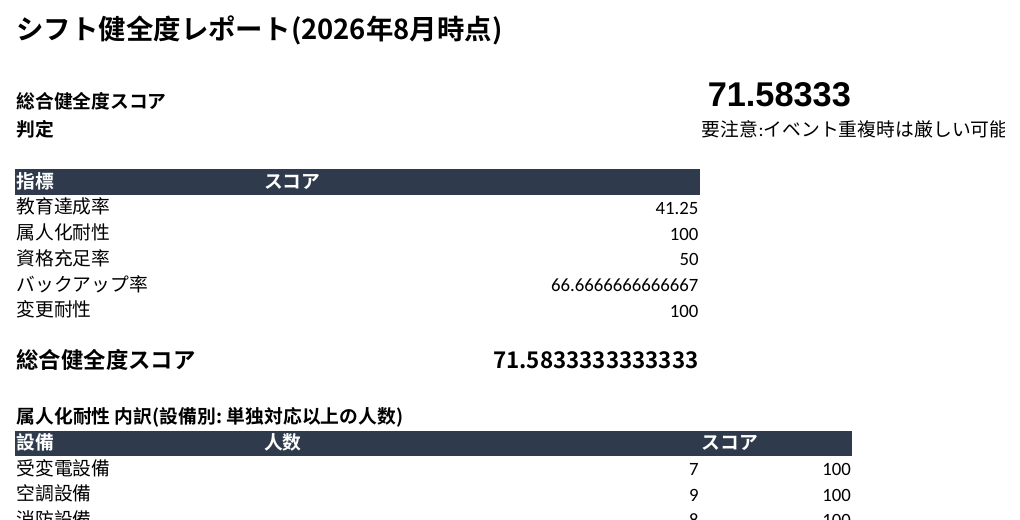
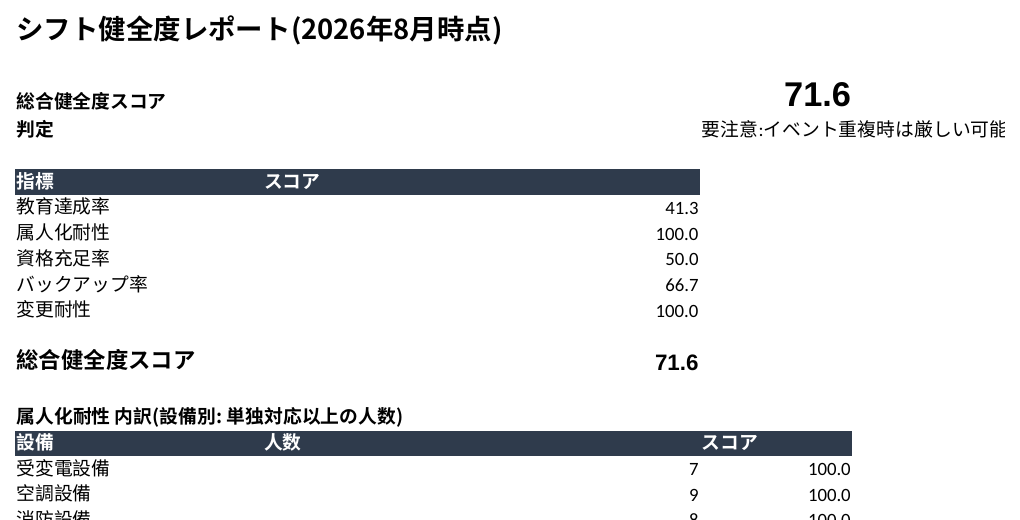
健全度スコアの表示を小数点第1位に統一、頭打ち対応案に第4案『チーム編成の見直し(異動)』を追加

diff --git a/dashboard/ShiftDashboard.jsx b/dashboard/ShiftDashboard.jsx
@@ -31,7 +31,7 @@ import {
 // ---- STEP1〜5で生成したデータ(2026年8月分のデモ) ----
 const DATA = {"members": [{"id": "M01", "name": "佐藤 一郎", "team": "A", "role": "リーダー"}, {"id": "M02", "name": "鈴木 次郎", "team": "B", "role": "リーダー"}, {"id": "M03", "name": "高橋 三郎", "team": "C", "role": "リーダー"}, {"id": "M04", "name": "田中 誠", "team": "A", "role": "中堅"}, {"id": "M05", "name": "伊藤 健太", "team": "B", "role": "中堅"}, {"id": "M06", "name": "渡辺 修", "team": "C", "role": "中堅"}, {"id": "M07", "name": "山本 隆", "team": "D", "role": "中堅"}, {"id": "M08", "name": "中村 陽介", "team": "A", "role": "一般"}, {"id": "M09", "name": "小林 拓也", "team": "C", "role": "一般"}, {"id": "M10", "name": "加藤 大輔", "team": "D", "role": "サブリーダー"}, {"id": "M11", "name": "吉田 匠", "team": "E", "role": "サブリーダー"}, {"id": "M12", "name": "山田 悠斗", "team": "B", "role": "新人"}, {"id": "M13", "name": "佐々木 蓮", "team": "D", "role": "新人"}, {"id": "M14", "name": "松本 洋平", "team": "E", "role": "中堅"}, {"id": "M15", "name": "井上 直樹", "team": "E", "role": "一般"}], "team_shifts_by_date": [{"date": "2026-08-01", "shifts": {"A": "早番A", "B": "早番B", "C": "夜勤", "D": "明け", "E": "休み"}}, {"date": "2026-08-02", "shifts": {"A": "早番B", "B": "夜勤", "C": "明け", "D": "休み", "E": "早番A"}}, {"date": "2026-08-03", "shifts": {"A": "夜勤", "B": "明け", "C": "休み", "D": "早番A", "E": "早番B"}}, {"date": "2026-08-04", "shifts": {"A": "明け", "B": "休み", "C": "早番A", "D": "早番B", "E": "夜勤"}}, {"date": "2026-08-05", "shifts": {"A": "休み", "B": "早番A", "C": "早番B", "D": "夜勤", "E": "明け"}}, {"date": "2026-08-06", "shifts": {"A": "早番A", "B": "早番B", "C": "夜勤", "D": "明け", "E": "休み"}}, {"date": "2026-08-07", "shifts": {"A": "早番B", "B": "夜勤", "C": "明け", "D": "休み", "E": "早番A"}}, {"date": "2026-08-08", "shifts": {"A": "夜勤", "B": "明け", "C": "休み", "D": "早番A", "E": "早番B"}}, {"date": "2026-08-09", "shifts": {"A": "明け", "B": "休み", "C": "早番A", "D": "早番B", "E": "夜勤"}}, {"date": "2026-08-10", "shifts": {"A": "休み", "B": "早番A", "C": "早番B", "D": "夜勤", "E": "明け"}}, {"date": "2026-08-11", "shifts": {"A": "早番A", "B": "早番B", "C": "夜勤", "D": "明け", "E": "休み"}}, {"date": "2026-08-12", "shifts": {"A": "早番B", "B": "夜勤", "C": "明け", "D": "休み", "E": "早番A"}}, {"date": "2026-08-13", "shifts": {"A": "夜勤", "B": "明け", "C": "休み", "D": "早番A", "E": "早番B"}}, {"date": "2026-08-14", "shifts": {"A": "明け", "B": "休み", "C": "早番A", "D": "早番B", "E": "夜勤"}}, {"date": "2026-08-15", "shifts": {"A": "休み", "B": "早番A", "C": "早番B", "D": "夜勤", "E": "明け"}}, {"date": "2026-08-16", "shifts": {"A": "早番A", "B": "早番B", "C": "夜勤", "D": "明け", "E": "休み"}}, {"date": "2026-08-17", "shifts": {"A": "早番B", "B": "夜勤", "C": "明け", "D": "休み", "E": "早番A"}}, {"date": "2026-08-18", "shifts": {"A": "夜勤", "B": "明け", "C": "休み", "D": "早番A", "E": "早番B"}}, {"date": "2026-08-19", "shifts": {"A": "明け", "B": "休み", "C": "早番A", "D": "早番B", "E": "夜勤"}}, {"date": "2026-08-20", "shifts": {"A": "休み", "B": "早番A", "C": "早番B", "D": "夜勤", "E": "明け"}}, {"date": "2026-08-21", "shifts": {"A": "早番A", "B": "早番B", "C": "夜勤", "D": "明け", "E": "休み"}}, {"date": "2026-08-22", "shifts": {"A": "早番B", "B": "夜勤", "C": "明け", "D": "休み", "E": "早番A"}}, {"date": "2026-08-23", "shifts": {"A": "夜勤", "B": "明け", "C": "休み", "D": "早番A", "E": "早番B"}}, {"date": "2026-08-24", "shifts": {"A": "明け", "B": "休み", "C": "早番A", "D": "早番B", "E": "夜勤"}}, {"date": "2026-08-25", "shifts": {"A": "休み", "B": "早番A", "C": "早番B", "D": "夜勤", "E": "明け"}}, {"date": "2026-08-26", "shifts": {"A": "早番A", "B": "早番B", "C": "夜勤", "D": "明け", "E": "休み"}}, {"date": "2026-08-27", "shifts": {"A": "早番B", "B": "夜勤", "C": "明け", "D": "休み", "E": "早番A"}}, {"date": "2026-08-28", "shifts": {"A": "夜勤", "B": "明け", "C": "休み", "D": "早番A", "E": "早番B"}}, {"date": "2026-08-29", "shifts": {"A": "明け", "B": "休み", "C": "早番A", "D": "早番B", "E": "夜勤"}}, {"date": "2026-08-30", "shifts": {"A": "休み", "B": "早番A", "C": "早番B", "D": "夜勤", "E": "明け"}}, {"date": "2026-08-31", "shifts": {"A": "早番A", "B": "早番B", "C": "夜勤", "D": "明け", "E": "休み"}}], "health": {"教育達成率": 41.2, "属人化耐性": 100.0, "資格充足率": 50.0, "バックアップ率": 66.7, "変更耐性": 100.0}, "health_overall": 71.6, "requested_days_off": {"M04": ["2026-08-10", "2026-08-11"], "M12": ["2026-08-20"], "M09": ["2026-08-15", "2026-08-16", "2026-08-17"]}, "night_overages": [{"member": "小林 拓也", "role": "一般", "scheduled_nights": 7, "limit": 6}, {"member": "山田 悠斗", "role": "新人", "scheduled_nights": 6, "limit": 4}, {"member": "佐々木 蓮", "role": "新人", "scheduled_nights": 6, "limit": 4}]};
 
-const FUTURE_DATA = {"projection": [{"month": 0, "overall": 71.6, "education": 41.2}, {"month": 3, "overall": 72.2, "education": 52.9}, {"month": 6, "overall": 73.0, "education": 56.7}, {"month": 12, "overall": 73.0, "education": 56.7}], "gap_count": 13, "people_needed": 5, "people_breakdown": [{"name": "佐藤 一郎", "covers": ["A/消防設備"]}, {"name": "鈴木 次郎", "covers": ["B/空調設備", "B/監視盤"]}, {"name": "高橋 三郎", "covers": ["C/受変電設備", "C/消防設備"]}, {"name": "加藤 大輔", "covers": ["D/受変電設備", "D/空調設備", "D/消防設備", "D/監視盤"]}, {"name": "吉田 匠", "covers": ["E/受変電設備", "E/空調設備", "E/消防設備", "E/監視盤"]}], "gaps_with_options": [{"team": "A", "equipment": "消防設備", "internal": "佐藤 一郎(現在 単独)を教育担当に育てる", "support": "鈴木 次郎(チームB) を臨時にチームAの早番Aへ応援に回す", "rotation": "佐藤 一郎など最もスキルの高いメンバーを一時的に教育専任(常日勤)にする。ただし固定化すると不公平感が出るため、対象者を数ヶ月ごとに交代するローテーション制にする"}, {"team": "B", "equipment": "空調設備", "internal": "鈴木 次郎(現在 単独)を教育担当に育てる", "support": "佐藤 一郎(チームA)、高橋 三郎(チームC) を臨時にチームBの早番Aへ応援に回す", "rotation": "鈴木 次郎など最もスキルの高いメンバーを一時的に教育専任(常日勤)にする。ただし固定化すると不公平感が出るため、対象者を数ヶ月ごとに交代するローテーション制にする"}, {"team": "B", "equipment": "監視盤", "internal": "鈴木 次郎(現在 単独)を教育担当に育てる", "support": "佐藤 一郎(チームA)、高橋 三郎(チームC) を臨時にチームBの早番Aへ応援に回す", "rotation": "鈴木 次郎など最もスキルの高いメンバーを一時的に教育専任(常日勤)にする。ただし固定化すると不公平感が出るため、対象者を数ヶ月ごとに交代するローテーション制にする"}, {"team": "C", "equipment": "受変電設備", "internal": "高橋 三郎(現在 単独)を教育担当に育てる", "support": "佐藤 一郎(チームA)、鈴木 次郎(チームB) を臨時にチームCの早番Aへ応援に回す", "rotation": "高橋 三郎など最もスキルの高いメンバーを一時的に教育専任(常日勤)にする。ただし固定化すると不公平感が出るため、対象者を数ヶ月ごとに交代するローテーション制にする"}, {"team": "C", "equipment": "消防設備", "internal": "高橋 三郎(現在 単独)を教育担当に育てる", "support": "鈴木 次郎(チームB) を臨時にチームCの早番Aへ応援に回す", "rotation": "高橋 三郎など最もスキルの高いメンバーを一時的に教育専任(常日勤)にする。ただし固定化すると不公平感が出るため、対象者を数ヶ月ごとに交代するローテーション制にする"}, {"team": "D", "equipment": "受変電設備", "internal": "加藤 大輔(現在 単独)を教育担当に育てる", "support": "佐藤 一郎(チームA)、鈴木 次郎(チームB) を臨時にチームDの早番Aへ応援に回す", "rotation": "加藤 大輔など最もスキルの高いメンバーを一時的に教育専任(常日勤)にする。ただし固定化すると不公平感が出るため、対象者を数ヶ月ごとに交代するローテーション制にする"}, {"team": "D", "equipment": "空調設備", "internal": "加藤 大輔(現在 教育担当補助)を教育担当に育てる", "support": "佐藤 一郎(チームA)、高橋 三郎(チームC) を臨時にチームDの早番Aへ応援に回す", "rotation": "加藤 大輔など最もスキルの高いメンバーを一時的に教育専任(常日勤)にする。ただし固定化すると不公平感が出るため、対象者を数ヶ月ごとに交代するローテーション制にする"}, {"team": "D", "equipment": "消防設備", "internal": "加藤 大輔(現在 単独)を教育担当に育てる", "support": "鈴木 次郎(チームB) を臨時にチームDの早番Aへ応援に回す", "rotation": "加藤 大輔など最もスキルの高いメンバーを一時的に教育専任(常日勤)にする。ただし固定化すると不公平感が出るため、対象者を数ヶ月ごとに交代するローテーション制にする"}, {"team": "D", "equipment": "監視盤", "internal": "加藤 大輔(現在 教育担当補助)を教育担当に育てる", "support": "佐藤 一郎(チームA)、高橋 三郎(チームC) を臨時にチームDの早番Aへ応援に回す", "rotation": "加藤 大輔など最もスキルの高いメンバーを一時的に教育専任(常日勤)にする。ただし固定化すると不公平感が出るため、対象者を数ヶ月ごとに交代するローテーション制にする"}, {"team": "E", "equipment": "受変電設備", "internal": "吉田 匠(現在 単独)を教育担当に育てる", "support": "佐藤 一郎(チームA)、鈴木 次郎(チームB) を臨時にチームEの早番Aへ応援に回す", "rotation": "吉田 匠など最もスキルの高いメンバーを一時的に教育専任(常日勤)にする。ただし固定化すると不公平感が出るため、対象者を数ヶ月ごとに交代するローテーション制にする"}, {"team": "E", "equipment": "空調設備", "internal": "吉田 匠(現在 単独)を教育担当に育てる", "support": "佐藤 一郎(チームA)、高橋 三郎(チームC) を臨時にチームEの早番Aへ応援に回す", "rotation": "吉田 匠など最もスキルの高いメンバーを一時的に教育専任(常日勤)にする。ただし固定化すると不公平感が出るため、対象者を数ヶ月ごとに交代するローテーション制にする"}, {"team": "E", "equipment": "消防設備", "internal": "吉田 匠(現在 教育担当補助)を教育担当に育てる", "support": "鈴木 次郎(チームB) を臨時にチームEの早番Aへ応援に回す", "rotation": "吉田 匠など最もスキルの高いメンバーを一時的に教育専任(常日勤)にする。ただし固定化すると不公平感が出るため、対象者を数ヶ月ごとに交代するローテーション制にする"}, {"team": "E", "equipment": "監視盤", "internal": "吉田 匠(現在 単独)を教育担当に育てる", "support": "佐藤 一郎(チームA)、高橋 三郎(チームC) を臨時にチームEの早番Aへ応援に回す", "rotation": "吉田 匠など最もスキルの高いメンバーを一時的に教育専任(常日勤)にする。ただし固定化すると不公平感が出るため、対象者を数ヶ月ごとに交代するローテーション制にする"}]};
+const FUTURE_DATA = {"projection": [{"month": 0, "overall": 71.6, "education": 41.2}, {"month": 3, "overall": 72.2, "education": 52.9}, {"month": 6, "overall": 73.0, "education": 56.7}, {"month": 12, "overall": 73.0, "education": 56.7}], "gap_count": 13, "people_needed": 5, "people_breakdown": [{"name": "佐藤 一郎", "covers": ["A/消防設備"]}, {"name": "鈴木 次郎", "covers": ["B/空調設備", "B/監視盤"]}, {"name": "高橋 三郎", "covers": ["C/受変電設備", "C/消防設備"]}, {"name": "加藤 大輔", "covers": ["D/受変電設備", "D/空調設備", "D/消防設備", "D/監視盤"]}, {"name": "吉田 匠", "covers": ["E/受変電設備", "E/空調設備", "E/消防設備", "E/監視盤"]}], "gaps_with_options": [{"team": "A", "equipment": "消防設備", "internal": "佐藤 一郎(現在 単独)を教育担当に育てる", "support": "鈴木 次郎(チームB) を臨時にチームAの早番Aへ応援に回す", "rotation": "佐藤 一郎など最もスキルの高いメンバーを一時的に教育専任(常日勤)にする。ただし固定化すると不公平感が出るため、対象者を数ヶ月ごとに交代するローテーション制にする", "reassignment": "鈴木 次郎(チームB)を チームA へ恒久的に異動する。異動元(チームB)には他に単独対応以上の人が残るため、教育体制は維持される"}, {"team": "B", "equipment": "空調設備", "internal": "鈴木 次郎(現在 単独)を教育担当に育てる", "support": "佐藤 一郎(チームA)、高橋 三郎(チームC) を臨時にチームBの早番Aへ応援に回す", "rotation": "鈴木 次郎など最もスキルの高いメンバーを一時的に教育専任(常日勤)にする。ただし固定化すると不公平感が出るため、対象者を数ヶ月ごとに交代するローテーション制にする", "reassignment": "佐藤 一郎(チームA)を チームB へ恒久的に異動する。異動元(チームA)には他に単独対応以上の人が残るため、教育体制は維持される"}, {"team": "B", "equipment": "監視盤", "internal": "鈴木 次郎(現在 単独)を教育担当に育てる", "support": "佐藤 一郎(チームA)、高橋 三郎(チームC) を臨時にチームBの早番Aへ応援に回す", "rotation": "鈴木 次郎など最もスキルの高いメンバーを一時的に教育専任(常日勤)にする。ただし固定化すると不公平感が出るため、対象者を数ヶ月ごとに交代するローテーション制にする", "reassignment": "佐藤 一郎(チームA)を チームB へ恒久的に異動する。異動元(チームA)には他に単独対応以上の人が残るため、教育体制は維持される"}, {"team": "C", "equipment": "受変電設備", "internal": "高橋 三郎(現在 単独)を教育担当に育てる", "support": "佐藤 一郎(チームA)、鈴木 次郎(チームB) を臨時にチームCの早番Aへ応援に回す", "rotation": "高橋 三郎など最もスキルの高いメンバーを一時的に教育専任(常日勤)にする。ただし固定化すると不公平感が出るため、対象者を数ヶ月ごとに交代するローテーション制にする", "reassignment": "佐藤 一郎(チームA)を チームC へ恒久的に異動する。異動元(チームA)には他に単独対応以上の人が残るため、教育体制は維持される"}, {"team": "C", "equipment": "消防設備", "internal": "高橋 三郎(現在 単独)を教育担当に育てる", "support": "鈴木 次郎(チームB) を臨時にチームCの早番Aへ応援に回す", "rotation": "高橋 三郎など最もスキルの高いメンバーを一時的に教育専任(常日勤)にする。ただし固定化すると不公平感が出るため、対象者を数ヶ月ごとに交代するローテーション制にする", "reassignment": "鈴木 次郎(チームB)を チームC へ恒久的に異動する。異動元(チームB)には他に単独対応以上の人が残るため、教育体制は維持される"}, {"team": "D", "equipment": "受変電設備", "internal": "加藤 大輔(現在 単独)を教育担当に育てる", "support": "佐藤 一郎(チームA)、鈴木 次郎(チームB) を臨時にチームDの早番Aへ応援に回す", "rotation": "加藤 大輔など最もスキルの高いメンバーを一時的に教育専任(常日勤)にする。ただし固定化すると不公平感が出るため、対象者を数ヶ月ごとに交代するローテーション制にする", "reassignment": "佐藤 一郎(チームA)を チームD へ恒久的に異動する。異動元(チームA)には他に単独対応以上の人が残るため、教育体制は維持される"}, {"team": "D", "equipment": "空調設備", "internal": "加藤 大輔(現在 教育担当補助)を教育担当に育てる", "support": "佐藤 一郎(チームA)、高橋 三郎(チームC) を臨時にチームDの早番Aへ応援に回す", "rotation": "加藤 大輔など最もスキルの高いメンバーを一時的に教育専任(常日勤)にする。ただし固定化すると不公平感が出るため、対象者を数ヶ月ごとに交代するローテーション制にする", "reassignment": "佐藤 一郎(チームA)を チームD へ恒久的に異動する。異動元(チームA)には他に単独対応以上の人が残るため、教育体制は維持される"}, {"team": "D", "equipment": "消防設備", "internal": "加藤 大輔(現在 単独)を教育担当に育てる", "support": "鈴木 次郎(チームB) を臨時にチームDの早番Aへ応援に回す", "rotation": "加藤 大輔など最もスキルの高いメンバーを一時的に教育専任(常日勤)にする。ただし固定化すると不公平感が出るため、対象者を数ヶ月ごとに交代するローテーション制にする", "reassignment": "鈴木 次郎(チームB)を チームD へ恒久的に異動する。異動元(チームB)には他に単独対応以上の人が残るため、教育体制は維持される"}, {"team": "D", "equipment": "監視盤", "internal": "加藤 大輔(現在 教育担当補助)を教育担当に育てる", "support": "佐藤 一郎(チームA)、高橋 三郎(チームC) を臨時にチームDの早番Aへ応援に回す", "rotation": "加藤 大輔など最もスキルの高いメンバーを一時的に教育専任(常日勤)にする。ただし固定化すると不公平感が出るため、対象者を数ヶ月ごとに交代するローテーション制にする", "reassignment": "佐藤 一郎(チームA)を チームD へ恒久的に異動する。異動元(チームA)には他に単独対応以上の人が残るため、教育体制は維持される"}, {"team": "E", "equipment": "受変電設備", "internal": "吉田 匠(現在 単独)を教育担当に育てる", "support": "佐藤 一郎(チームA)、鈴木 次郎(チームB) を臨時にチームEの早番Aへ応援に回す", "rotation": "吉田 匠など最もスキルの高いメンバーを一時的に教育専任(常日勤)にする。ただし固定化すると不公平感が出るため、対象者を数ヶ月ごとに交代するローテーション制にする", "reassignment": "佐藤 一郎(チームA)を チームE へ恒久的に異動する。異動元(チームA)には他に単独対応以上の人が残るため、教育体制は維持される"}, {"team": "E", "equipment": "空調設備", "internal": "吉田 匠(現在 単独)を教育担当に育てる", "support": "佐藤 一郎(チームA)、高橋 三郎(チームC) を臨時にチームEの早番Aへ応援に回す", "rotation": "吉田 匠など最もスキルの高いメンバーを一時的に教育専任(常日勤)にする。ただし固定化すると不公平感が出るため、対象者を数ヶ月ごとに交代するローテーション制にする", "reassignment": "佐藤 一郎(チームA)を チームE へ恒久的に異動する。異動元(チームA)には他に単独対応以上の人が残るため、教育体制は維持される"}, {"team": "E", "equipment": "消防設備", "internal": "吉田 匠(現在 教育担当補助)を教育担当に育てる", "support": "鈴木 次郎(チームB) を臨時にチームEの早番Aへ応援に回す", "rotation": "吉田 匠など最もスキルの高いメンバーを一時的に教育専任(常日勤)にする。ただし固定化すると不公平感が出るため、対象者を数ヶ月ごとに交代するローテーション制にする", "reassignment": "鈴木 次郎(チームB)を チームE へ恒久的に異動する。異動元(チームB)には他に単独対応以上の人が残るため、教育体制は維持される"}, {"team": "E", "equipment": "監視盤", "internal": "吉田 匠(現在 単独)を教育担当に育てる", "support": "佐藤 一郎(チームA)、高橋 三郎(チームC) を臨時にチームEの早番Aへ応援に回す", "rotation": "吉田 匠など最もスキルの高いメンバーを一時的に教育専任(常日勤)にする。ただし固定化すると不公平感が出るため、対象者を数ヶ月ごとに交代するローテーション制にする", "reassignment": "佐藤 一郎(チームA)を チームE へ恒久的に異動する。異動元(チームA)には他に単独対応以上の人が残るため、教育体制は維持される"}]};
 
 const STORAGE_KEY = "a2e_leave_requests_v1";
 
@@ -507,6 +507,10 @@ export default function ShiftDashboard() {
                         <div className="bg-slate-950/50 rounded-lg p-2">
                           <div className="text-violet-300 font-medium mb-0.5">案3: 常駐化+ローテーション制</div>
                           <div className="text-slate-400">{g.rotation}</div>
+                        </div>
+                        <div className="bg-slate-950/50 rounded-lg p-2">
+                          <div className="text-amber-300 font-medium mb-0.5">案4: チーム編成の見直し(異動)</div>
+                          <div className="text-slate-400">{g.reassignment}</div>
                         </div>
                       </div>
                     )}

diff --git a/excel/generate_excel_report.py b/excel/generate_excel_report.py
@@ -218,6 +218,7 @@ def build_workbook():
     ws_requests["A1"].font = BOLD
     ws_requests["B1"] = "=シフト健全度!C3"
     ws_requests["B1"].font = BOLD
+    ws_requests["B1"].number_format = "0.0"
     ws_requests["C1"] = "=シフト健全度!C4"
 
     req_headers = ["氏名", "チーム", "希望日", "理由", "割当中のシフト", "承認後のチーム残(単独対応可能)人数", "判定"]
@@ -319,11 +320,13 @@ def build_workbook():
         count_formula = f'=COUNTIF(メンバーデータ!{col_letter}2:{col_letter}{last_member_row},">=2")'
         ws_health.cell(row=r, column=2, value=count_formula)
         score_formula = f"=MIN(B{r},3)/3*100"
-        ws_health.cell(row=r, column=3, value=score_formula)
+        score_cell = ws_health.cell(row=r, column=3, value=score_formula)
+        score_cell.number_format = "0.0"
         eq_score_cells.append(f"C{r}")
 
     ws_health.cell(row=DEPENDENCY_OVERALL_ROW, column=1, value="属人化耐性(総合)").font = BOLD
-    ws_health.cell(row=DEPENDENCY_OVERALL_ROW, column=3, value=f"=AVERAGE({','.join(eq_score_cells)})")
+    dep_overall_cell = ws_health.cell(row=DEPENDENCY_OVERALL_ROW, column=3, value=f"=AVERAGE({','.join(eq_score_cells)})")
+    dep_overall_cell.number_format = "0.0"
     metric_cells["属人化耐性"] = f"C{DEPENDENCY_OVERALL_ROW}"
 
     # --- 内訳: 変更耐性(チーム別) ---
@@ -339,11 +342,13 @@ def build_workbook():
         ws_health.cell(row=r, column=1, value=team)
         ws_health.cell(row=r, column=2, value=f'=SUMIFS(メンバーデータ!$O:$O,メンバーデータ!$B:$B,"{team}")')
         ws_health.cell(row=r, column=3, value=f'=COUNTIF(メンバーデータ!$B:$B,"{team}")')
-        ws_health.cell(row=r, column=4, value=f"=MIN(B{r},2)/2*100")
+        score_cell2 = ws_health.cell(row=r, column=4, value=f"=MIN(B{r},2)/2*100")
+        score_cell2.number_format = "0.0"
         team_score_cells.append(f"D{r}")
 
     ws_health.cell(row=RESILIENCE_OVERALL_ROW, column=1, value="変更耐性(総合)").font = BOLD
-    ws_health.cell(row=RESILIENCE_OVERALL_ROW, column=4, value=f"=AVERAGE({','.join(team_score_cells)})")
+    res_overall_cell = ws_health.cell(row=RESILIENCE_OVERALL_ROW, column=4, value=f"=AVERAGE({','.join(team_score_cells)})")
+    res_overall_cell.number_format = "0.0"
     metric_cells["変更耐性"] = f"D{RESILIENCE_OVERALL_ROW}"
 
     # --- 資格充足率(計算用ワーク行) ---
@@ -379,18 +384,18 @@ def build_workbook():
     ws_health.cell(row=QUAL_OVERALL_ROW, column=1, value="資格充足率(総合)").font = BOLD
     ws_health.cell(row=QUAL_OVERALL_ROW, column=2, value=f"=SUM({','.join(total_check_cells)})")
     ws_health.cell(row=QUAL_OVERALL_ROW, column=3, value=f"=SUM({','.join(satisfied_cells)})")
-    ws_health.cell(row=QUAL_OVERALL_ROW, column=4, value=f"=C{QUAL_OVERALL_ROW}/B{QUAL_OVERALL_ROW}*100")
+    ws_health.cell(row=QUAL_OVERALL_ROW, column=4, value=f"=C{QUAL_OVERALL_ROW}/B{QUAL_OVERALL_ROW}*100").number_format = "0.0"
     metric_cells["資格充足率"] = f"D{QUAL_OVERALL_ROW}"
 
     # --- 教育達成率・バックアップ率(単純な集計) ---
     ws_health.cell(row=SIMPLE_ROW, column=1, value="教育達成率").font = BOLD
     ws_health.cell(row=SIMPLE_ROW, column=2,
-                   value=f"=AVERAGE(メンバーデータ!K2:N{last_member_row})/4*100")
+                   value=f"=AVERAGE(メンバーデータ!K2:N{last_member_row})/4*100").number_format = "0.0"
     metric_cells["教育達成率"] = f"B{SIMPLE_ROW}"
 
     ws_health.cell(row=SIMPLE_ROW2, column=1, value="バックアップ率").font = BOLD
     ws_health.cell(row=SIMPLE_ROW2, column=2,
-                   value=f'=COUNTIF(メンバーデータ!J2:J{last_member_row},"?*")/COUNTA(メンバーデータ!A2:A{last_member_row})*100')
+                   value=f'=COUNTIF(メンバーデータ!J2:J{last_member_row},"?*")/COUNTA(メンバーデータ!A2:A{last_member_row})*100').number_format = "0.0"
     metric_cells["バックアップ率"] = f"B{SIMPLE_ROW2}"
 
     # --- 指標別サマリー表(row6: 見出し, row7-11: 5指標, row13: 総合) ---
@@ -405,16 +410,20 @@ def build_workbook():
     for i, name in enumerate(metric_order):
         r = metric_start_row + i
         ws_health.cell(row=r, column=1, value=name).font = NORMAL
-        ws_health.cell(row=r, column=2, value=f"={metric_cells[name]}")
+        ws_health.cell(row=r, column=2, value=f"={metric_cells[name]}").number_format = "0.0"
 
     overall_row = metric_start_row + len(metric_order) + 1  # 13
     ws_health.cell(row=overall_row, column=1, value="総合健全度スコア").font = Font(name=FONT_NAME, bold=True, size=13)
     overall_formula = "=AVERAGE(" + ",".join(f"B{metric_start_row + i}" for i in range(len(metric_order))) + ")"
-    ws_health.cell(row=overall_row, column=2, value=overall_formula).font = Font(name=FONT_NAME, bold=True, size=13)
+    overall_cell = ws_health.cell(row=overall_row, column=2, value=overall_formula)
+    overall_cell.font = Font(name=FONT_NAME, bold=True, size=13)
+    overall_cell.number_format = "0.0"
 
     # --- 総合スコア・判定のクイック表示(row3-4、上の表と行が重ならない位置) ---
     ws_health.cell(row=3, column=1, value="総合健全度スコア").font = BOLD
-    ws_health.cell(row=3, column=3, value=f"=B{overall_row}").font = Font(name=FONT_NAME, bold=True, size=20)
+    quick_cell = ws_health.cell(row=3, column=3, value=f"=B{overall_row}")
+    quick_cell.font = Font(name=FONT_NAME, bold=True, size=20)
+    quick_cell.number_format = "0.0"
     ws_health.cell(row=4, column=1, value="判定").font = BOLD
     ws_health.cell(row=4, column=3,
                    value='=IF(C3>=80,"安全:突発休暇があっても対応可能",IF(C3>=60,"要注意:イベント重複時は厳しい可能性","要対応:バックアップ確保が必要"))')
@@ -479,10 +488,11 @@ def build_workbook():
     ws_gaps.column_dimensions["B"].width = 40
     ws_gaps.column_dimensions["C"].width = 30
     ws_gaps.column_dimensions["D"].width = 55
+    ws_gaps.column_dimensions["E"].width = 55
 
     ws_gaps["A1"] = "教育担当が不在で頭打ちになっている箇所と対応案"
     ws_gaps["A1"].font = TITLE_FONT
-    ws_gaps.merge_cells("A1:D1")
+    ws_gaps.merge_cells("A1:E1")
 
     ws_gaps["A3"] = "頭打ち箇所(チーム×設備の組み合わせ数)"
     ws_gaps["A3"].font = BOLD
@@ -507,7 +517,7 @@ def build_workbook():
     detail_start = summary_header_row + 1 + len(need["breakdown"]) + 2
     ws_gaps.cell(row=detail_start, column=1, value="箇所ごとの対応案(3案)").font = BOLD
     header_row2 = detail_start + 1
-    for c, h in enumerate(["チーム/設備", "案1: 内部昇格", "案2: 他チームからの応援", "案3: 常駐化+ローテーション制"], start=1):
+    for c, h in enumerate(["チーム/設備", "案1: 内部昇格", "案2: 他チームからの応援", "案3: 常駐化+ローテーション制", "案4: チーム編成の見直し(異動)"], start=1):
         cell = ws_gaps.cell(row=header_row2, column=c, value=h)
         cell.font = HEADER_FONT
         cell.fill = HEADER_FILL
@@ -517,7 +527,7 @@ def build_workbook():
         resolution = gap_resolution_options(member_objs, gap)
         opt_by_name = {o["案"]: o for o in resolution["options"]}
         ws_gaps.cell(row=r, column=1, value=f"チーム{gap['team']} / {gap['equipment']}")
-        for col, key in zip((2, 3, 4), ("内部昇格", "他チームからの応援", "常駐化+ローテーション制")):
+        for col, key in zip((2, 3, 4, 5), ("内部昇格", "他チームからの応援", "常駐化+ローテーション制", "チーム編成の見直し(異動)")):
             opt = opt_by_name.get(key)
             text = opt["内容"] if opt else "(該当候補なし)"
             cell = ws_gaps.cell(row=r, column=col, value=text)

diff --git a/src/future_simulation.py b/src/future_simulation.py
@@ -235,8 +235,29 @@ def find_instructor_teams(members: List[Member], equipment: str) -> List[dict]:
     return result
 
 
+def suggest_team_reassignment(members: List[Member], gap: dict) -> List[dict]:
+    """頭打ち箇所について、他チームの教育担当を恒久的に異動させる案の候補を探す。
+
+    異動元チームがその設備の対応力を失わずに済むか(他に単独対応以上の人が残るか)を
+    合わせて判定する。将来的な『チーム編成の見直し』提案の土台となる関数。
+    """
+    team, equipment = gap["team"], gap["equipment"]
+    candidates = []
+    for m in members:
+        if m.equipment_skills.get(equipment) == "教育担当" and m.team != team:
+            origin_team_members = [x for x in members if x.team == m.team and x.member_id != m.member_id]
+            origin_still_covered = any(
+                _stage_index(x.equipment_skills.get(equipment, "見学")) >= _stage_index("単独")
+                for x in origin_team_members
+            )
+            candidates.append(
+                {"name": m.name, "from_team": m.team, "origin_team_still_covered": origin_still_covered}
+            )
+    return candidates
+
+
 def gap_resolution_options(members: List[Member], gap: dict) -> dict:
-    """教育担当が不在の(チーム, 設備)について、対応案を3つ提示する。
+    """教育担当が不在の(チーム, 設備)について、対応案を提示する。
 
     原資料セクション13(V2構想: 複数案を提示し管理者が選ぶ)の考え方を、
     『教育担当不在』という具体的な状況に当てはめたもの。
@@ -286,7 +307,32 @@ def gap_resolution_options(members: List[Member], gap: dict) -> dict:
             "留意点": "交代の仕組み・引き継ぎのルール作りが必要",
         }
 
-    return {"team": team, "equipment": equipment, "options": [o for o in (option_a, option_b, option_c) if o]}
+    option_d = None
+    reassignment_candidates = suggest_team_reassignment(members, gap)
+    if reassignment_candidates:
+        safe = [c for c in reassignment_candidates if c["origin_team_still_covered"]]
+        if safe:
+            c = safe[0]
+            option_d = {
+                "案": "チーム編成の見直し(異動)",
+                "内容": f"{c['name']}(チーム{c['from_team']})を チーム{team} へ恒久的に異動する。異動元(チーム{c['from_team']})には他に単独対応以上の人が残るため、教育体制は維持される",
+                "メリット": "応援と違い恒久的な解決になり、翌月以降ずっと教育が進む",
+                "留意点": "異動対象者本人の負担・生活環境の変化への配慮が必要",
+            }
+        else:
+            c = reassignment_candidates[0]
+            option_d = {
+                "案": "チーム編成の見直し(異動)",
+                "内容": f"{c['name']}(チーム{c['from_team']})を チーム{team} へ異動する案もあるが、異動元(チーム{c['from_team']})の教育体制が手薄になるため単独では非推奨",
+                "メリット": "恒久的な解決になりうる",
+                "留意点": "異動元チームに新たな頭打ちが生まれるため、内部昇格と組み合わせて検討する必要がある",
+            }
+
+    return {
+        "team": team,
+        "equipment": equipment,
+        "options": [o for o in (option_a, option_b, option_c, option_d) if o],
+    }
 
 
 def succession_risk(members: List[Member], role: str, team: str, months_until_departure: int) -> dict:

diff --git a/README.md b/README.md
@@ -20,7 +20,7 @@ STEP0〜STEP8まですべて完了済みです。以下の3通りの見方があ
 **シフト表シート**(氏名×日付、早A/早B/夜/明/休を色分け)
 ![シフト表](docs/images/shift_table.png)
 
-**頭打ち箇所と対応案シート**(内部昇格/他チーム応援/常駐化+ローテーション制)
+**頭打ち箇所と対応案シート**(内部昇格/他チーム応援/常駐化+ローテーション制/チーム編成の見直し)
 ![頭打ち箇所と対応案](docs/images/gap_resolution.png)
 
 | シート | 内容 |
@@ -240,8 +240,8 @@ Excelレポート(`excel/generate_excel_report.py`)を追加した。
   数式で判定し、80/60というスコア帯の考え方(セクション8)を個別の申請レベルに落とし込んだ:
   残り2人以上「バックアップ不要」、1人「要注意」、0人「バックアップ出動が必要」。
 - 「頭打ち箇所と対応案」シートでは、教育担当が不在の箇所ごとに内部昇格/他チーム応援/
-  常駐化+ローテーション制の3案と、実際に必要な昇格人数(組み合わせ数13件に対し実質5人)
-  を一覧化している(STEP7と同じロジック)。
+  常駐化+ローテーション制/チーム編成の見直しの4案と、実際に必要な昇格人数(組み合わせ数
+  13件に対し実質5人)を一覧化している(STEP7と同じロジック)。
 - これは「教育を進めれば希望休が通りやすくなる」ことをメンバー自身にも実感してもらい、
   今月のシフト・教育投資(早番A)の使い方が3〜6ヶ月後の健全度に直結するという
   意思決定を後押しするための土台(STEP7の未来シミュレーションに接続する)。
@@ -262,10 +262,12 @@ Excelレポート(`excel/generate_excel_report.py`)を追加した。
   13件すべて解消できる
 - **増員した場合のwhat-if**: 候補者を教育担当に昇格させた場合、理論上限が
   総合73.0→79.6、教育達成率56.7%→100%まで伸びることを試算
-- **頭打ち箇所ごとの対応案(3案)**: 「内部昇格」「他チームからの応援」
-  「最スキル者の常駐化+ローテーション制(公平性への配慮)」を、メリット・留意点付きで提示
-  (原資料セクション13のV2構想「複数案の比較提示」を、教育担当不在という具体的な
-  状況に当てはめたもの)
+- **頭打ち箇所ごとの対応案(4案)**: 「内部昇格」「他チームからの応援」
+  「最スキル者の常駐化+ローテーション制(公平性への配慮)」「チーム編成の見直し(異動)」を、
+  メリット・留意点付きで提示(原資料セクション13のV2構想「複数案の比較提示」を、
+  教育担当不在という具体的な状況に当てはめたもの)。「チーム編成の見直し」は、
+  異動元チームがその設備の対応力を失わずに済むか(他に単独対応以上の人が残るか)まで
+  判定したうえで提案する
 - **退職シミュレーション**: 役職ごとに後任育成に必要なリードタイムが異なるという前提
   (リーダー6ヶ月・サブリーダー3ヶ月・それ以外1ヶ月)のもと、「いつ・どの役職が
   抜けると危険か」、後継候補が社内にいるかを判定する
@@ -275,8 +277,8 @@ Excelレポート(`excel/generate_excel_report.py`)を追加した。
 バックアップ可否は本シミュレーションでは変化しないものとする。
 
 このロジックは `excel/generate_excel_report.py` の「頭打ち箇所と対応案」シートにも
-反映しており、13件の不足箇所それぞれについて3案(内部昇格/他チーム応援/常駐化+
-ローテーション制)と、実際に必要な昇格人数(5人)の一覧をExcel上で確認できる。
+反映しており、13件の不足箇所それぞれについて4案(内部昇格/他チーム応援/常駐化+
+ローテーション制/チーム編成の見直し)と、実際に必要な昇格人数(5人)の一覧をExcel上で確認できる。
 
 ## 現時点の制約(V1の範囲)
 
